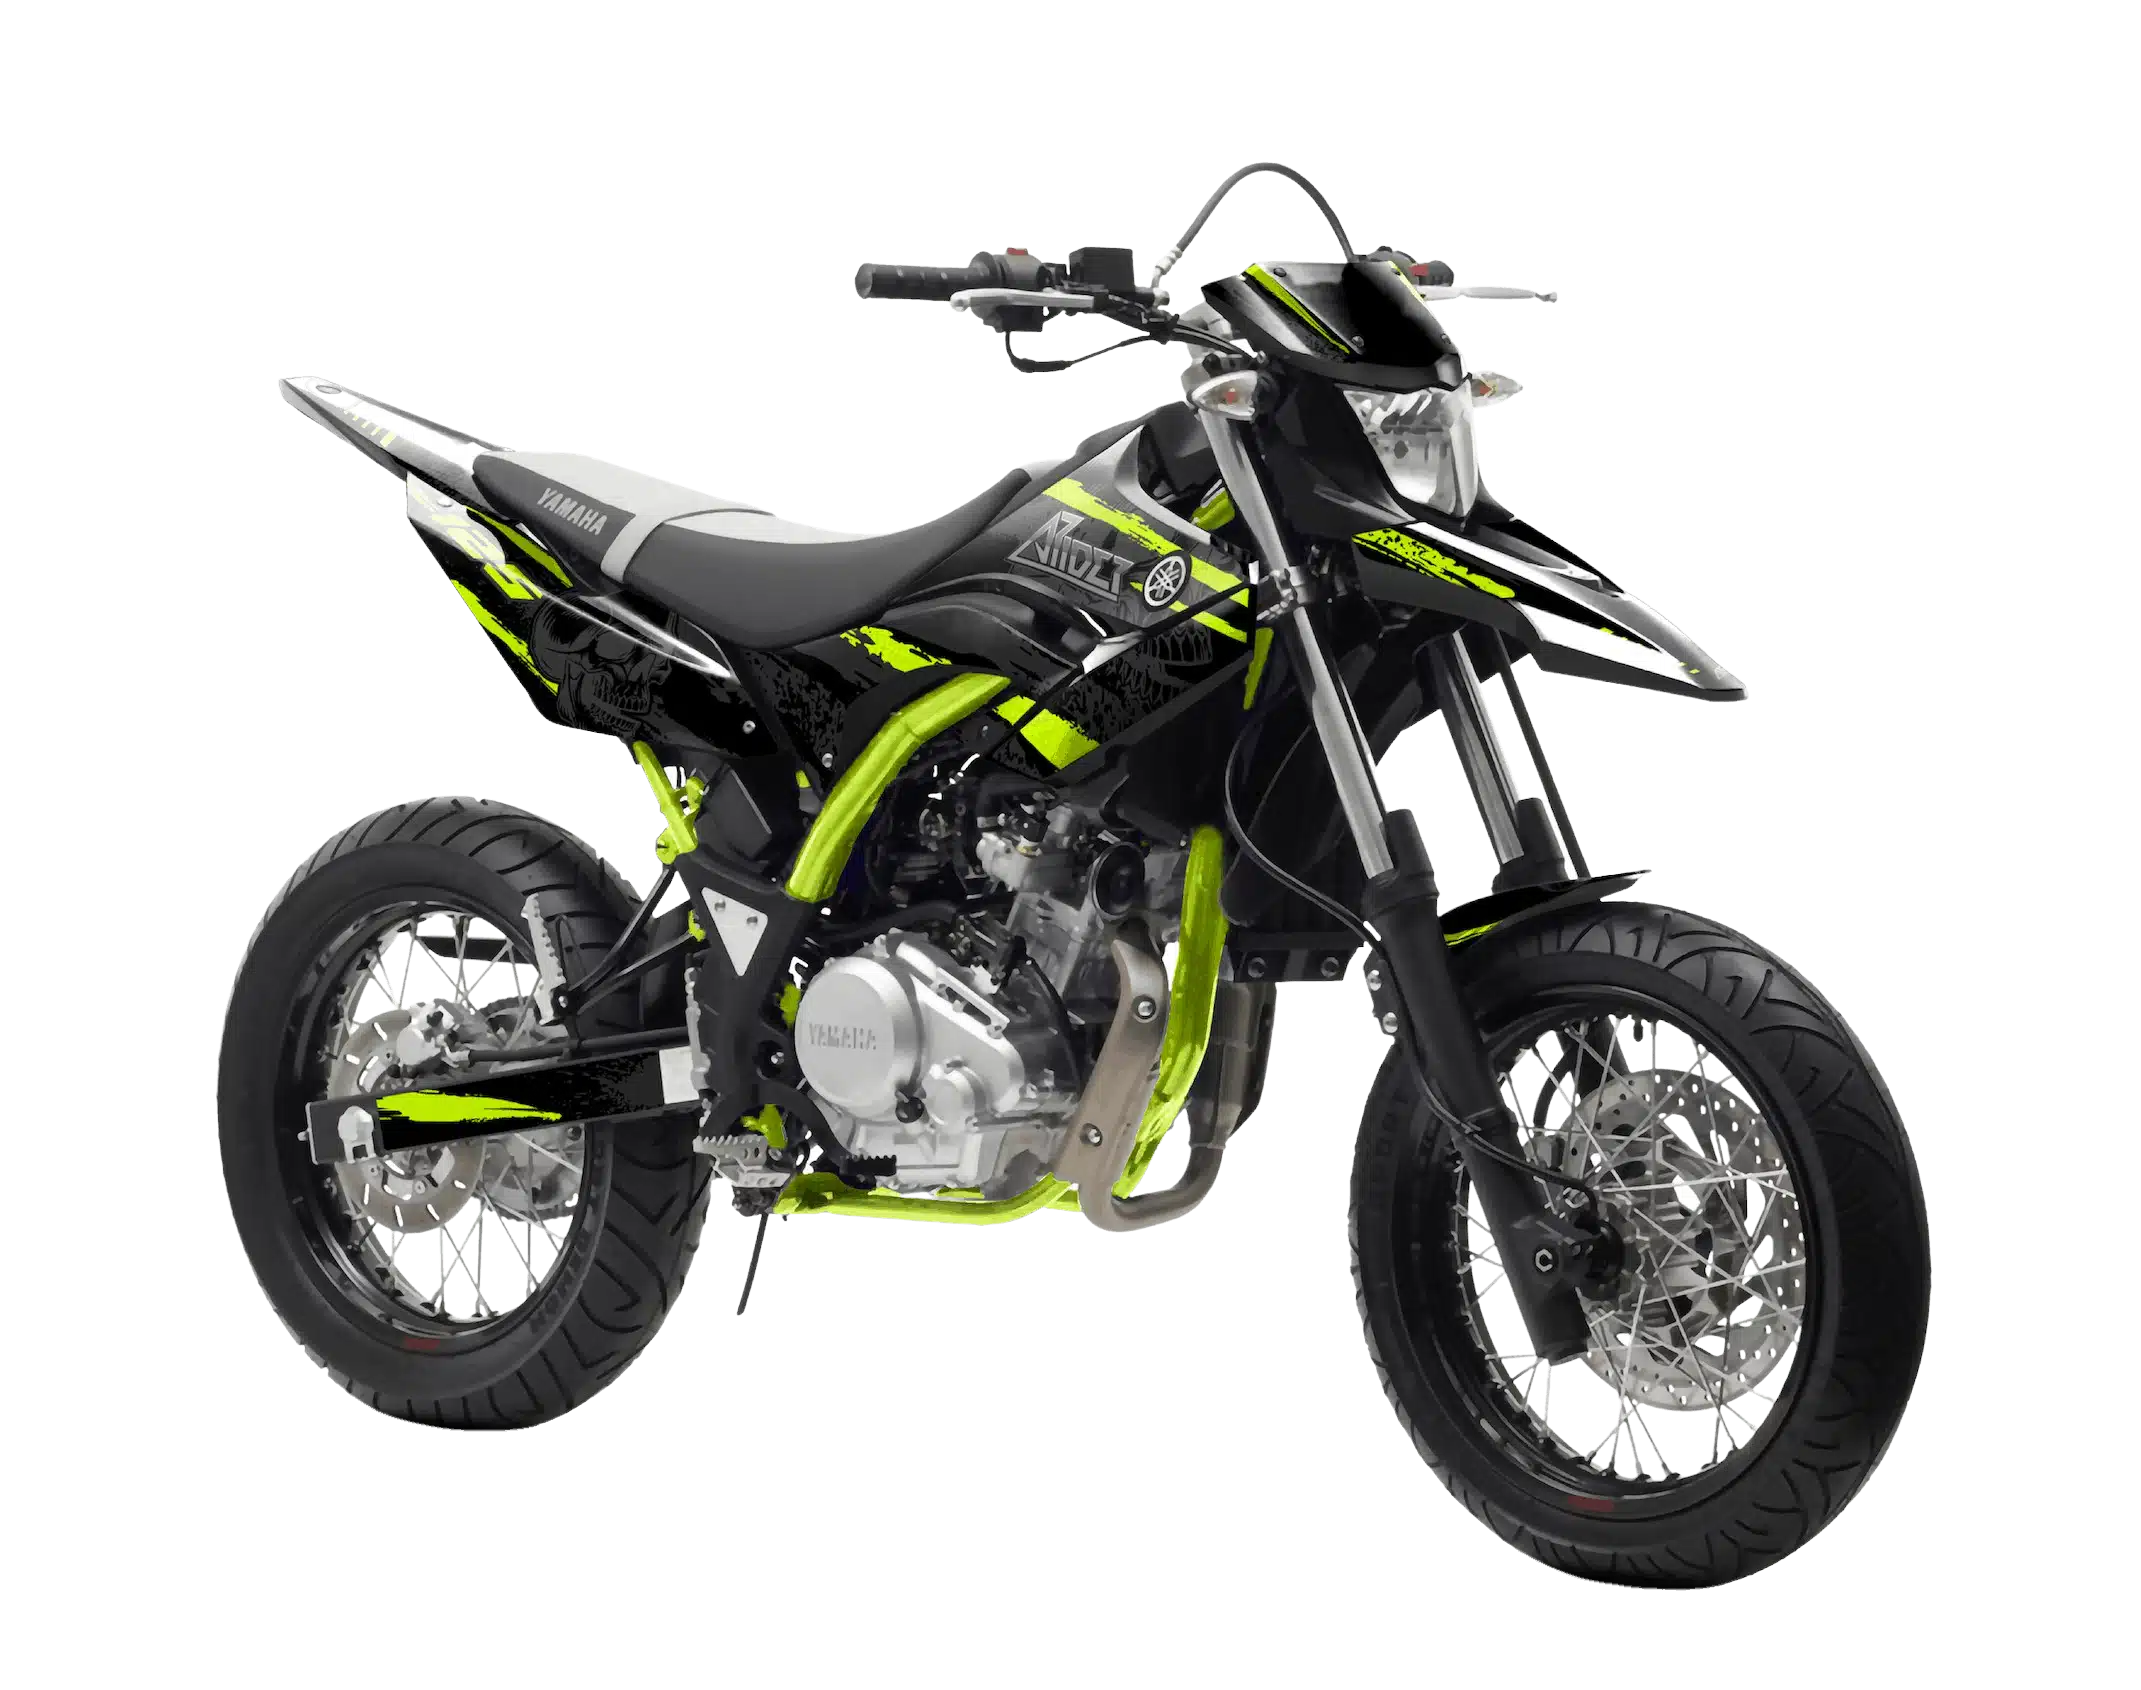
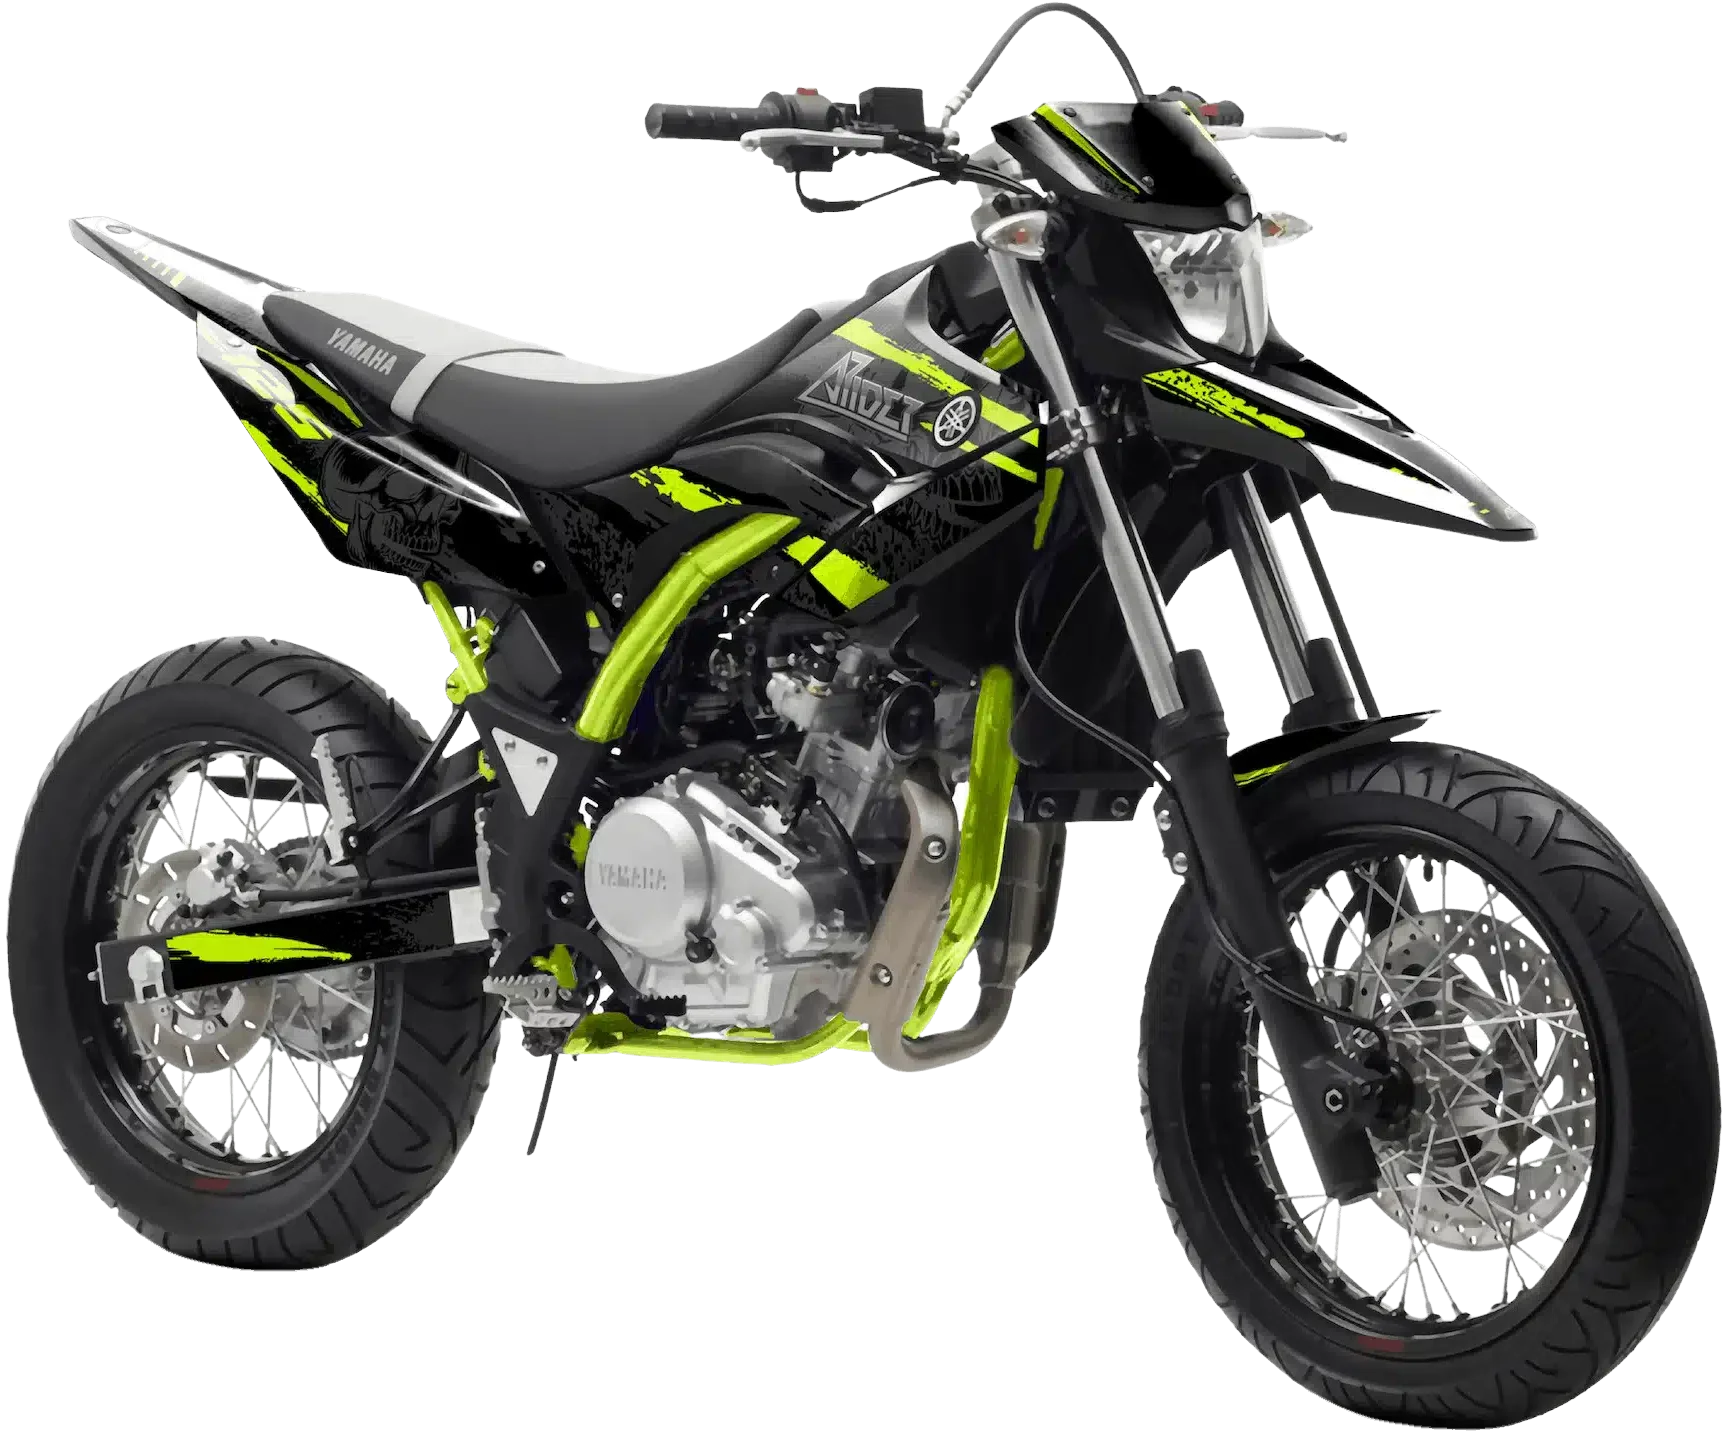
93%

diff --git a/mc.html b/mc.html
@@ -89,11 +89,11 @@
     </nav>
 
 
-    <div class="mcn">
+    <div class="mcn animate">
         <div class="mc-info">
             <h2 class="left">Yamaha WR125X</h2>
             <h3 class="left">48 900:-</h3>
-            <p class="left">Yamaha WR är en rolig Supermoto och en väg för unga in i MC-livet! Med lagbegränsad kraft och industriledande teknologi kan du göra allt andra 125:or kan och mer med denna hoj!</p>
+            <p class="left">Yamaha WR är en rolig supermoto och en perfekt väg för unga in i MC-livet! Med lagbegränsad kraft och industriledande teknologi kan du göra allt andra 125:or kan och mer med denna hoj!</p>
             <a href="#" class="knapp animate">Specifikationer</a>
             <a href="#" class="knapp animate">Broschyr</a>
             <a href="#" class="knapp animate">Boka provkörning</a>

diff --git a/css/style.css b/css/style.css
@@ -18,7 +18,7 @@
     color: #28282d;
     border: 1px solid #28282d;
     padding: 12px 34px;
-    font-size: 13px;
+    font-size: 16px;
     background: transparent;
     position: relative;
     cursor: pointer;
@@ -27,8 +27,8 @@
     margin-top: 15px;
 }
 .knapp:hover {
-    border: 1px solid rgba(206, 206, 206, 0.5);
-    background: rgba(206, 206, 206, 0.5);
+    border: 1px solid #d6d6e0;
+    background: #d6d6e0;
     transition: 0.5s;
 }
 
@@ -299,21 +299,23 @@ u {
 
 /* mc.html */
 .mc-bild img{
-    width: 80%;
+    width: 100%;
 }
 
 .mcn {
     margin-top: 100px;
     margin-left: 10%;
-    margin-right: 24px;
+    margin-right: 10%;
 }
 
 .left {
     text-align: left;
+    padding-top: 10px;
 }
 
 .mc-info p {
     width: 70%;
+    font-size: 20px;
 }
 
 
